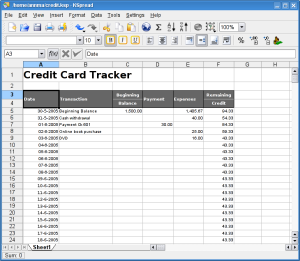
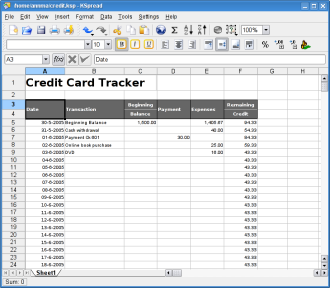
change screenshot location thumbnail is 330 width for index.php
git-svn-id: svn+ssh://svn.kde.org/home/kde/trunk/www/areas/koffice@462988 283d02a7-25f6-0310-bc7c-ecb5cbfe19da

diff --git a/kspread/index.php b/kspread/index.php
@@ -13,6 +13,14 @@
      <p>KSpread is a scriptable spreadsheet program which provides both table-oriented sheets and support 
      for complex mathematical formulas and statistics. KSpread's features include:</p>
 
+        <center>
+        <?php
+        $gallery = new ImageGallery("KSpread- Screenshot");
+        $gallery->addImage("pics/kspread1_sm.png", "pics/kspread1.png", 330, 288,  "[Screenshot]", "", "KSpread");
+        $gallery->show();
+        ?>
+        </center>
+
 <ul>
 <li>multiple tables/sheets per document;</li>
 <li>templates; </li>
@@ -31,14 +39,6 @@
 <li>cell customization (data/number format, precision, border, alignment, rotation, background color and pattern, 
 font type, style and size, etc.). </li>
 </ul>
-
-        <center>
-        <?php
-        $gallery = new ImageGallery("KSpread- Screenshot");
-        $gallery->addImage("pics/kspread1_sm.png", "pics/kspread1.png", 300, 261,  "[Screenshot]", "", "KSpread");
-        $gallery->show();
-        ?>
-        </center>
 
  <br />
  <hr width="30%" align="center" />
